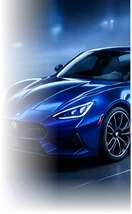
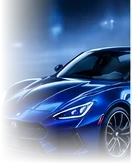
Video Pages: designs 21-30 (industry pages), Results page without the artificial form strip
Claude-Session: https://claude.ai/code/session_01HH9yPdRShECkgPUa54kUr5

diff --git a/styles/puck/24-pa-business.css b/styles/puck/24-pa-business.css
@@ -17,12 +17,15 @@
 .pk-d-pa-business .pk-hero--story .pk-field input { min-height: 34px; padding: 4px 10px; }
 .pk-d-pa-business .pk-strip-row { flex-wrap: nowrap; gap: 6px; }
 .pk-d-pa-business .pk-strip-item { flex: 1 1 0; min-width: 0; font-size: clamp(10.5px, 2.9vw, 16px); }
+.pk-d-pa-business .pk-quote figcaption { display: contents; }
+.pk-d-pa-business .pk-quote figcaption .pk-avatar { grid-column: 1; grid-row: 1 / span 2; }
+.pk-d-pa-business .pk-quote figcaption > span { grid-column: 2; grid-row: 2; }
 .pk-d-pa-business .pk-quote small { display: none; }
 .pk-d-pa-business .pk-quote figcaption span::before { content: "\2013\00a0"; }
 .pk-d-pa-business .pk-avatar { width: 48px; height: 48px; }
 .pk-d-pa-business .pk-ctabar { font-size: 15px; min-height: 54px; }
 @media (min-width: 760px) {
-  .pk-d-pa-business .pk-hero--story { grid-template-columns: minmax(0, min(340px, 36vw)) minmax(0, min(340px, 36vw)) 1fr; column-gap: 20px; padding-left: max(24px, calc((100vw - 1200px) / 2)); padding-right: 24px; background-position: right max(0px, calc((100vw - 1200px) / 2)) top; background-size: auto 100%; min-height: 0; padding-top: 40px; padding-bottom: 48px; }
+  .pk-d-pa-business .pk-hero--story { grid-template-columns: minmax(0, min(340px, 36vw)) minmax(0, min(340px, 36vw)) 1fr; column-gap: 20px; padding-left: max(24px, calc((100vw - 1200px) / 2)); padding-right: 24px; background-position: right top; background-size: auto 100%; min-height: 0; padding-top: 40px; padding-bottom: 48px; }
   .pk-d-pa-business .pk-hero--story .pk-hero-copy { grid-column: 1 / 3; grid-row: 1; max-width: 560px; align-self: end; }
   .pk-d-pa-business .pk-hero--story .pk-hero-video { grid-column: 1; grid-row: 2; max-width: none; }
   .pk-d-pa-business .pk-hero--story .pk-hero-form { grid-column: 2; grid-row: 2; max-width: none; }

diff --git a/styles/puck/21-pa-estate.css b/styles/puck/21-pa-estate.css
@@ -17,12 +17,15 @@
 .pk-d-pa-estate .pk-hero--story .pk-field input { min-height: 34px; padding: 4px 10px; }
 .pk-d-pa-estate .pk-strip-row { flex-wrap: nowrap; gap: 6px; }
 .pk-d-pa-estate .pk-strip-item { flex: 1 1 0; min-width: 0; font-size: clamp(10.5px, 2.9vw, 16px); }
+.pk-d-pa-estate .pk-quote figcaption { display: contents; }
+.pk-d-pa-estate .pk-quote figcaption .pk-avatar { grid-column: 1; grid-row: 1 / span 2; }
+.pk-d-pa-estate .pk-quote figcaption > span { grid-column: 2; grid-row: 2; }
 .pk-d-pa-estate .pk-quote small { display: none; }
 .pk-d-pa-estate .pk-quote figcaption span::before { content: "\2013\00a0"; }
 .pk-d-pa-estate .pk-avatar { width: 48px; height: 48px; }
 .pk-d-pa-estate .pk-ctabar { font-size: 15px; min-height: 54px; }
 @media (min-width: 760px) {
-  .pk-d-pa-estate .pk-hero--story { grid-template-columns: minmax(0, min(340px, 36vw)) minmax(0, min(340px, 36vw)) 1fr; column-gap: 20px; padding-left: max(24px, calc((100vw - 1200px) / 2)); padding-right: 24px; background-position: right max(0px, calc((100vw - 1200px) / 2)) top; background-size: auto 100%; min-height: 0; padding-top: 40px; padding-bottom: 48px; }
+  .pk-d-pa-estate .pk-hero--story { grid-template-columns: minmax(0, min(340px, 36vw)) minmax(0, min(340px, 36vw)) 1fr; column-gap: 20px; padding-left: max(24px, calc((100vw - 1200px) / 2)); padding-right: 24px; background-position: right top; background-size: auto 100%; min-height: 0; padding-top: 40px; padding-bottom: 48px; }
   .pk-d-pa-estate .pk-hero--story .pk-hero-copy { grid-column: 1 / 3; grid-row: 1; max-width: 560px; align-self: end; }
   .pk-d-pa-estate .pk-hero--story .pk-hero-video { grid-column: 1; grid-row: 2; max-width: none; }
   .pk-d-pa-estate .pk-hero--story .pk-hero-form { grid-column: 2; grid-row: 2; max-width: none; }

diff --git a/styles/puck/22-pa-bistro.css b/styles/puck/22-pa-bistro.css
@@ -17,12 +17,15 @@
 .pk-d-pa-bistro .pk-hero--story .pk-field input { min-height: 34px; padding: 4px 10px; }
 .pk-d-pa-bistro .pk-strip-row { flex-wrap: nowrap; gap: 6px; }
 .pk-d-pa-bistro .pk-strip-item { flex: 1 1 0; min-width: 0; font-size: clamp(10.5px, 2.9vw, 16px); }
+.pk-d-pa-bistro .pk-quote figcaption { display: contents; }
+.pk-d-pa-bistro .pk-quote figcaption .pk-avatar { grid-column: 1; grid-row: 1 / span 2; }
+.pk-d-pa-bistro .pk-quote figcaption > span { grid-column: 2; grid-row: 2; }
 .pk-d-pa-bistro .pk-quote small { display: none; }
 .pk-d-pa-bistro .pk-quote figcaption span::before { content: "\2013\00a0"; }
 .pk-d-pa-bistro .pk-avatar { width: 48px; height: 48px; }
 .pk-d-pa-bistro .pk-ctabar { font-size: 15px; min-height: 54px; }
 @media (min-width: 760px) {
-  .pk-d-pa-bistro .pk-hero--story { grid-template-columns: minmax(0, min(340px, 36vw)) minmax(0, min(340px, 36vw)) 1fr; column-gap: 20px; padding-left: max(24px, calc((100vw - 1200px) / 2)); padding-right: 24px; background-position: right max(0px, calc((100vw - 1200px) / 2)) top; background-size: auto 100%; min-height: 0; padding-top: 40px; padding-bottom: 48px; }
+  .pk-d-pa-bistro .pk-hero--story { grid-template-columns: minmax(0, min(340px, 36vw)) minmax(0, min(340px, 36vw)) 1fr; column-gap: 20px; padding-left: max(24px, calc((100vw - 1200px) / 2)); padding-right: 24px; background-position: right top; background-size: auto 100%; min-height: 0; padding-top: 40px; padding-bottom: 48px; }
   .pk-d-pa-bistro .pk-hero--story .pk-hero-copy { grid-column: 1 / 3; grid-row: 1; max-width: 560px; align-self: end; }
   .pk-d-pa-bistro .pk-hero--story .pk-hero-video { grid-column: 1; grid-row: 2; max-width: none; }
   .pk-d-pa-bistro .pk-hero--story .pk-hero-form { grid-column: 2; grid-row: 2; max-width: none; }

diff --git a/styles/puck/23-pa-motors.css b/styles/puck/23-pa-motors.css
@@ -17,12 +17,15 @@
 .pk-d-pa-motors .pk-hero--story .pk-field input { min-height: 34px; padding: 4px 10px; }
 .pk-d-pa-motors .pk-strip-row { flex-wrap: nowrap; gap: 6px; }
 .pk-d-pa-motors .pk-strip-item { flex: 1 1 0; min-width: 0; font-size: clamp(10.5px, 2.9vw, 16px); }
+.pk-d-pa-motors .pk-quote figcaption { display: contents; }
+.pk-d-pa-motors .pk-quote figcaption .pk-avatar { grid-column: 1; grid-row: 1 / span 2; }
+.pk-d-pa-motors .pk-quote figcaption > span { grid-column: 2; grid-row: 2; }
 .pk-d-pa-motors .pk-quote small { display: none; }
 .pk-d-pa-motors .pk-quote figcaption span::before { content: "\2013\00a0"; }
 .pk-d-pa-motors .pk-avatar { width: 48px; height: 48px; }
 .pk-d-pa-motors .pk-ctabar { font-size: 15px; min-height: 54px; }
 @media (min-width: 760px) {
-  .pk-d-pa-motors .pk-hero--story { grid-template-columns: minmax(0, min(340px, 36vw)) minmax(0, min(340px, 36vw)) 1fr; column-gap: 20px; padding-left: max(24px, calc((100vw - 1200px) / 2)); padding-right: 24px; background-position: right max(0px, calc((100vw - 1200px) / 2)) top; background-size: auto 100%; min-height: 0; padding-top: 40px; padding-bottom: 48px; }
+  .pk-d-pa-motors .pk-hero--story { grid-template-columns: minmax(0, min(340px, 36vw)) minmax(0, min(340px, 36vw)) 1fr; column-gap: 20px; padding-left: max(24px, calc((100vw - 1200px) / 2)); padding-right: 24px; background-position: right top; background-size: auto 100%; min-height: 0; padding-top: 40px; padding-bottom: 48px; }
   .pk-d-pa-motors .pk-hero--story .pk-hero-copy { grid-column: 1 / 3; grid-row: 1; max-width: 560px; align-self: end; }
   .pk-d-pa-motors .pk-hero--story .pk-hero-video { grid-column: 1; grid-row: 2; max-width: none; }
   .pk-d-pa-motors .pk-hero--story .pk-hero-form { grid-column: 2; grid-row: 2; max-width: none; }

diff --git a/styles/puck/25-pa-travel.css b/styles/puck/25-pa-travel.css
@@ -17,12 +17,15 @@
 .pk-d-pa-travel .pk-hero--story .pk-field input { min-height: 34px; padding: 4px 10px; }
 .pk-d-pa-travel .pk-strip-row { flex-wrap: nowrap; gap: 6px; }
 .pk-d-pa-travel .pk-strip-item { flex: 1 1 0; min-width: 0; font-size: clamp(10.5px, 2.9vw, 16px); }
+.pk-d-pa-travel .pk-quote figcaption { display: contents; }
+.pk-d-pa-travel .pk-quote figcaption .pk-avatar { grid-column: 1; grid-row: 1 / span 2; }
+.pk-d-pa-travel .pk-quote figcaption > span { grid-column: 2; grid-row: 2; }
 .pk-d-pa-travel .pk-quote small { display: none; }
 .pk-d-pa-travel .pk-quote figcaption span::before { content: "\2013\00a0"; }
 .pk-d-pa-travel .pk-avatar { width: 48px; height: 48px; }
 .pk-d-pa-travel .pk-ctabar { font-size: 15px; min-height: 54px; }
 @media (min-width: 760px) {
-  .pk-d-pa-travel .pk-hero--story { grid-template-columns: minmax(0, min(340px, 36vw)) minmax(0, min(340px, 36vw)) 1fr; column-gap: 20px; padding-left: max(24px, calc((100vw - 1200px) / 2)); padding-right: 24px; background-position: right max(0px, calc((100vw - 1200px) / 2)) top; background-size: auto 100%; min-height: 0; padding-top: 40px; padding-bottom: 48px; }
+  .pk-d-pa-travel .pk-hero--story { grid-template-columns: minmax(0, min(340px, 36vw)) minmax(0, min(340px, 36vw)) 1fr; column-gap: 20px; padding-left: max(24px, calc((100vw - 1200px) / 2)); padding-right: 24px; background-position: right top; background-size: auto 100%; min-height: 0; padding-top: 40px; padding-bottom: 48px; }
   .pk-d-pa-travel .pk-hero--story .pk-hero-copy { grid-column: 1 / 3; grid-row: 1; max-width: 560px; align-self: end; }
   .pk-d-pa-travel .pk-hero--story .pk-hero-video { grid-column: 1; grid-row: 2; max-width: none; }
   .pk-d-pa-travel .pk-hero--story .pk-hero-form { grid-column: 2; grid-row: 2; max-width: none; }

diff --git a/src/lib/landingPages/__tests__/puck.test.jsx b/src/lib/landingPages/__tests__/puck.test.jsx
@@ -127,8 +127,10 @@ describe.each(PUCK_TEMPLATES.map((t) => [t.name, t]))('design: %s', (_n, t) => {
   it('renders one h1, one video and a working lead form, with tokens filled', () => {
     expect((out.match(/<h1/g) || []).length).toBe(1);
     expect((out.match(/<video/g) || []).length).toBe(1);
-    expect(out).toContain('pk-form');
-    expect(out).toContain('Maya');
+    // The supplied "Results" design has no form (add a Contact band in the editor); every other design captures leads.
+    if (!t.noLeadForm) expect(out).toContain('pk-form');
+    // Designs whose copy uses {{tokens}} must greet the contact; the supplied Results copy has none.
+    if (JSON.stringify(t.puckData).includes('{{')) expect(out).toContain('Maya');
     expect(out).not.toMatch(/\{\{|\[\[/);
   });
   it('is flowing markup: no zoom, no fixed canvas, safe links only', () => {

diff --git a/src/lib/landingPages/puck/designs/31-results.js b/src/lib/landingPages/puck/designs/31-results.js
@@ -4,6 +4,7 @@ export default {
   "name": "Results page (laptop demo)",
   "description": "Hero with presenter photo and video card, feature tiles, laptop demo, testimonials and a closing CTA band. Names and quotes are sample content.",
   "designClass": "results",
+  "noLeadForm": true,
   "theme": {
     "mode": "light",
     "accent": "#1565f2",
@@ -84,7 +85,7 @@ export default {
           ],
           "chip": "No credit card required",
           "photo": "/landing-art/results/poster.webp",
-          "showForm": "yes",
+          "showForm": "no",
           "formTitle": "Get your free personalized video",
           "formSubtitle": "",
           "formFields": [
